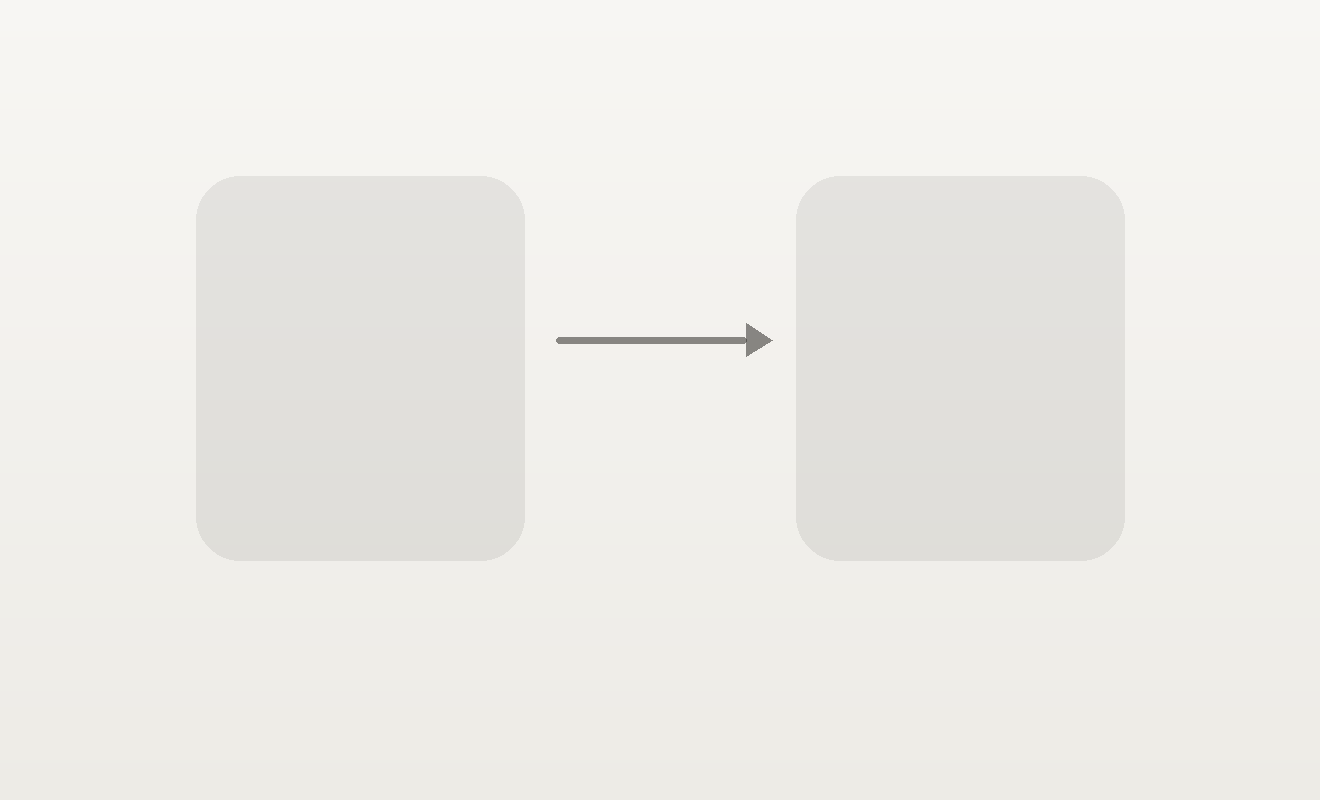
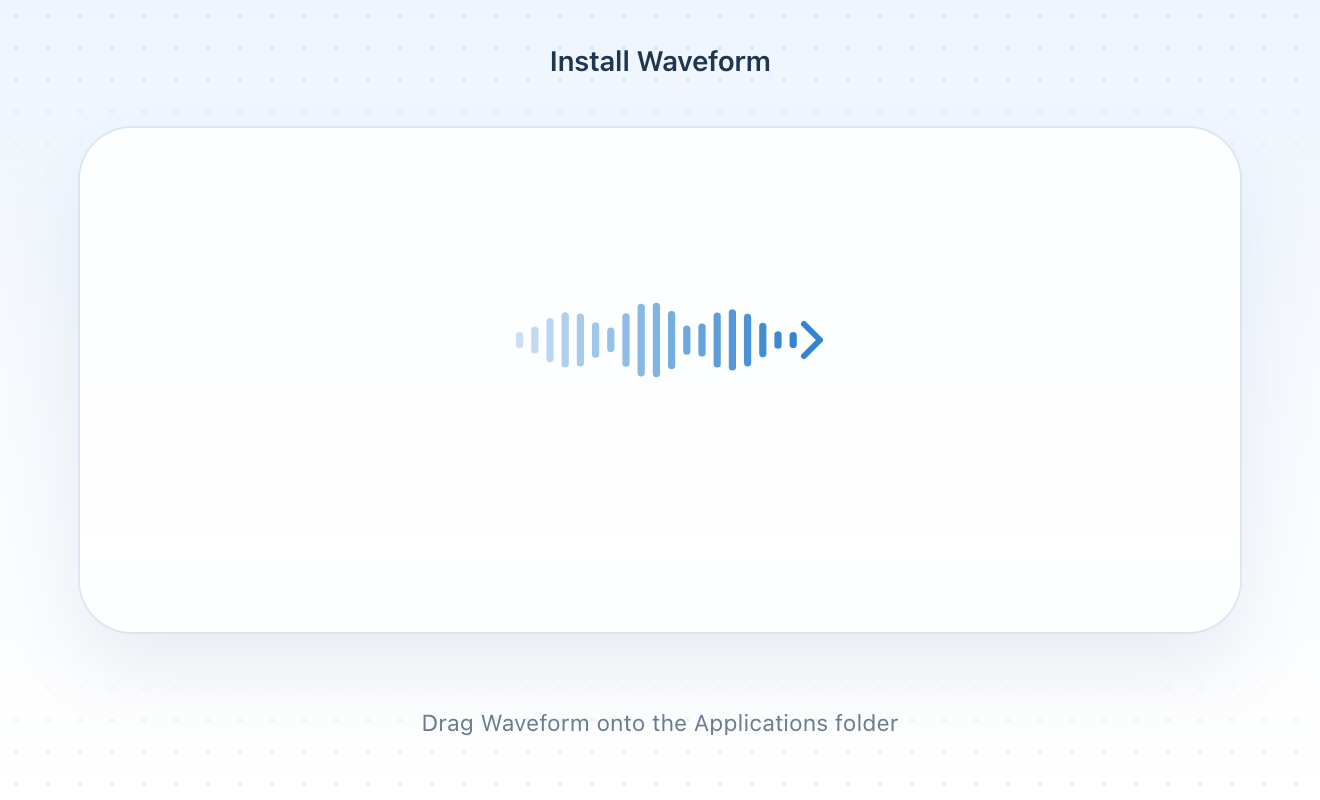
Polish the disk image background (#156)
* Polish the disk image background

Replace the grey slots and arrow with a branded install window: the Waveform
mark at the top, a blue sound wave as the arrow into Applications, and a
one-line hint. The art now comes from scripts/dmg-background.html, rendered
at 2x by headless Chrome, so type and gradients match the app.

* Use the install card layout with the wave arrow

A soft blue page with one white card behind both icons, an Install Waveform
heading, and the sound-wave arrow leading into Applications.

Changed region(s): [[0.1242, 0.2188, 0.8697, 0.7188], [0.0, 0.875, 1.0, 1.0], [0.4038, 0.0625, 0.5902, 0.0938]]

diff --git a/scripts/dmg-background.html b/scripts/dmg-background.html
@@ -1,0 +1,78 @@
+<!doctype html>
+<!--
+  The disk image background, drawn in a browser so type and gradients come out
+  the way they do in the app. scripts/generate-dmg-background.py renders it to
+  icons/dmg-background.png and @2x.
+
+  The window is 660x400 with the 128pt app icon centred on (180, 170) and
+  Applications on (480, 170), matching bundle.macOS.dmg in tauri.conf.json and
+  finish-dmg.sh. Finder draws the icons and their names on top; this only draws
+  what is between and around them.
+-->
+<html>
+<head>
+<meta charset="utf-8">
+<style>
+  * { margin: 0; padding: 0; box-sizing: border-box; }
+  html, body { width: 660px; height: 400px; overflow: hidden; }
+  body {
+    position: relative;
+    font-family: -apple-system, "SF Pro Text", system-ui, sans-serif;
+    -webkit-font-smoothing: antialiased;
+    background: linear-gradient(180deg, #eef5fd 0%, #f9fbfe 60%, #ffffff 100%);
+  }
+  /* A faint dot grid that shows only above and below the card. */
+  .dots {
+    position: absolute; inset: 0;
+    background-image: radial-gradient(rgba(50, 132, 208, 0.13) 1px, transparent 1.2px);
+    background-size: 16px 16px;
+    -webkit-mask: linear-gradient(180deg, #000 0, transparent 30%, transparent 80%, #000 100%);
+  }
+  /* One white card holding both icons and their names. */
+  .card {
+    position: absolute; left: 40px; right: 40px; top: 64px; height: 252px;
+    border-radius: 26px; background: rgba(255, 255, 255, 0.8);
+    box-shadow: 0 0 0 1px rgba(50, 132, 208, 0.10), 0 18px 40px rgba(50, 90, 140, 0.10);
+  }
+  .wave { position: absolute; left: 0; top: 0; fill: #3284d0; }
+  h1 {
+    position: absolute; top: 22px; width: 100%; text-align: center;
+    font-size: 14px; font-weight: 600; color: #1f3550; letter-spacing: -0.01em;
+  }
+  p {
+    position: absolute; bottom: 32px; width: 100%; text-align: center;
+    font-size: 11.5px; color: #6b7c90;
+  }
+</style>
+</head>
+<body>
+  <div class="dots"></div>
+  <div class="card"></div>
+  <h1>Install Waveform</h1>
+  <!-- The arrow: a sound wave that grows and brightens towards Applications. -->
+  <svg class="wave" width="660" height="400">
+    <rect x="258.0" y="166.0" width="3.6" height="8.0" rx="1.8" fill-opacity="0.25"/>
+    <rect x="265.6" y="163.3" width="3.6" height="13.5" rx="1.8" fill-opacity="0.29"/>
+    <rect x="273.2" y="159.0" width="3.6" height="22.0" rx="1.8" fill-opacity="0.33"/>
+    <rect x="280.8" y="156.1" width="3.6" height="27.7" rx="1.8" fill-opacity="0.38"/>
+    <rect x="288.4" y="156.7" width="3.6" height="26.6" rx="1.8" fill-opacity="0.42"/>
+    <rect x="296.0" y="161.1" width="3.6" height="17.8" rx="1.8" fill-opacity="0.46"/>
+    <rect x="303.6" y="163.8" width="3.6" height="12.3" rx="1.8" fill-opacity="0.50"/>
+    <rect x="311.2" y="156.6" width="3.6" height="26.8" rx="1.8" fill-opacity="0.54"/>
+    <rect x="318.8" y="151.9" width="3.6" height="36.3" rx="1.8" fill-opacity="0.58"/>
+    <rect x="326.4" y="151.4" width="3.6" height="37.2" rx="1.8" fill-opacity="0.62"/>
+    <rect x="334.0" y="155.5" width="3.6" height="29.0" rx="1.8" fill-opacity="0.67"/>
+    <rect x="341.6" y="162.7" width="3.6" height="14.7" rx="1.8" fill-opacity="0.71"/>
+    <rect x="349.2" y="161.7" width="3.6" height="16.6" rx="1.8" fill-opacity="0.75"/>
+    <rect x="356.8" y="156.3" width="3.6" height="27.5" rx="1.8" fill-opacity="0.79"/>
+    <rect x="364.4" y="154.6" width="3.6" height="30.7" rx="1.8" fill-opacity="0.83"/>
+    <rect x="372.0" y="156.9" width="3.6" height="26.3" rx="1.8" fill-opacity="0.88"/>
+    <rect x="379.6" y="161.4" width="3.6" height="17.2" rx="1.8" fill-opacity="0.92"/>
+    <rect x="387.2" y="165.6" width="3.6" height="8.8" rx="1.8" fill-opacity="0.96"/>
+    <rect x="394.8" y="166.0" width="3.6" height="8.0" rx="1.8" fill-opacity="1.00"/>
+    <path d="M402 162 L410 170 L402 178" fill="none" stroke="#3284d0" stroke-width="3"
+          stroke-linecap="round" stroke-linejoin="round"/>
+  </svg>
+  <p>Drag Waveform onto the Applications folder</p>
+</body>
+</html>

diff --git a/scripts/generate-dmg-background.py b/scripts/generate-dmg-background.py
@@ -1,89 +1,53 @@
 #!/usr/bin/env python3
-"""Draws the disk image background: two slots and an arrow between them.
+"""Renders scripts/dmg-background.html into the disk image background.
 
-The window is 660x400 with the app at (180, 170) and Applications at (480, 170),
-matching bundle.macOS.dmg in tauri.conf.json. Those coordinates are Finder's,
-measured from the top-left of the window's content, and the icons are 128pt --
-so a slot is centred on (x, y) and the art has to be placed around that rather
-than at it.
+Headless Chrome draws the page at 2x for icons/dmg-background@2x.png (Finder
+picks it up on Retina), and sips scales that to icons/dmg-background.png for
+1x displays. Edit the HTML, run this, and commit both PNGs; the release build
+only copies them.
 
-Drawn at 2x and reduced, and written twice: background.png for the 1x display
-and background@2x.png beside it, which Finder picks up for Retina.
-
-Run: ./.venv-qwen/bin/python scripts/generate-dmg-background.py
+Run: python3 scripts/generate-dmg-background.py
 """
+import os
+import subprocess
+import sys
 from pathlib import Path
 
-from PIL import Image, ImageDraw
-
 WIDTH, HEIGHT = 660, 400
-APP_X, APP_Y = 180, 170
-FOLDER_X, FOLDER_Y = 480, 170
-ICON = 128
-SCALE = 2
-
-# The app's own palette, so the image and the icon it sits under agree.
-TOP = (247, 246, 243)
-BOTTOM = (237, 235, 230)
-SLOT = (0, 0, 0, 18)
-ARROW = (60, 58, 54, 150)
-
-
-def background() -> Image.Image:
-    size = (WIDTH * SCALE, HEIGHT * SCALE)
-    image = Image.new("RGB", size, TOP)
-    draw = ImageDraw.Draw(image, "RGBA")
-
-    # A quiet vertical wash rather than a flat fill: flat reads as a missing
-    # image, and anything busier competes with the two icons on top of it.
-    for y in range(size[1]):
-        ratio = y / max(1, size[1] - 1)
-        draw.line(
-            [(0, y), (size[0], y)],
-            fill=tuple(round(TOP[i] + (BOTTOM[i] - TOP[i]) * ratio) for i in range(3)),
-        )
-
-    # A rounded slot behind each icon and its Finder name. The name sits
-    # under the 128pt icon, and a slot that only wraps the icon cuts
-    # "Waveform" and "Applications" in half.
-    pad = 18 * SCALE
-    label = 28 * SCALE
-    for cx, cy in ((APP_X, APP_Y), (FOLDER_X, FOLDER_Y)):
-        left = (cx - ICON // 2) * SCALE - pad
-        top = (cy - ICON // 2) * SCALE - pad
-        draw.rounded_rectangle(
-            [left, top, left + ICON * SCALE + pad * 2, top + ICON * SCALE + pad * 2 + label],
-            radius=22 * SCALE,
-            fill=SLOT,
-        )
-
-    # The arrow: a shaft between the slots with a solid head, pointing the way
-    # the drag goes.
-    y = APP_Y * SCALE
-    start = (APP_X + ICON // 2 + 34) * SCALE
-    end = (FOLDER_X - ICON // 2 - 30) * SCALE
-    shaft = 3 * SCALE
-    head = 13 * SCALE
-    draw.rounded_rectangle(
-        [start, y - shaft // 2, end - head, y + shaft // 2],
-        radius=shaft,
-        fill=ARROW,
-    )
-    draw.polygon(
-        [(end, y), (end - head, y - head * 0.62), (end - head, y + head * 0.62)],
-        fill=ARROW,
-    )
-
-    return image.resize((WIDTH * 2, HEIGHT * 2), Image.LANCZOS)
+CHROME = os.environ.get(
+    "CHROME", "/Applications/Google Chrome.app/Contents/MacOS/Google Chrome"
+)
 
 
 def main() -> None:
     root = Path(__file__).resolve().parent.parent
-    art = root / "icons"
-    retina = background()
-    retina.save(art / "dmg-background@2x.png")
-    retina.resize((WIDTH, HEIGHT), Image.LANCZOS).save(art / "dmg-background.png")
-    print(f"wrote {art / 'dmg-background.png'} ({WIDTH}x{HEIGHT}) and @2x")
+    page = root / "scripts" / "dmg-background.html"
+    retina = root / "icons" / "dmg-background@2x.png"
+    normal = root / "icons" / "dmg-background.png"
+
+    if not Path(CHROME).exists():
+        sys.exit(f"generate-dmg-background: no Chrome at {CHROME} (set CHROME)")
+
+    subprocess.run(
+        [
+            CHROME,
+            "--headless=new",
+            "--disable-gpu",
+            "--hide-scrollbars",
+            "--force-device-scale-factor=2",
+            f"--window-size={WIDTH},{HEIGHT}",
+            f"--screenshot={retina}",
+            page.as_uri(),
+        ],
+        check=True,
+        stderr=subprocess.DEVNULL,
+    )
+    subprocess.run(
+        ["sips", "-z", str(HEIGHT), str(WIDTH), str(retina), "--out", str(normal)],
+        check=True,
+        stdout=subprocess.DEVNULL,
+    )
+    print(f"wrote {normal} ({WIDTH}x{HEIGHT}) and @2x")
 
 
 if __name__ == "__main__":
